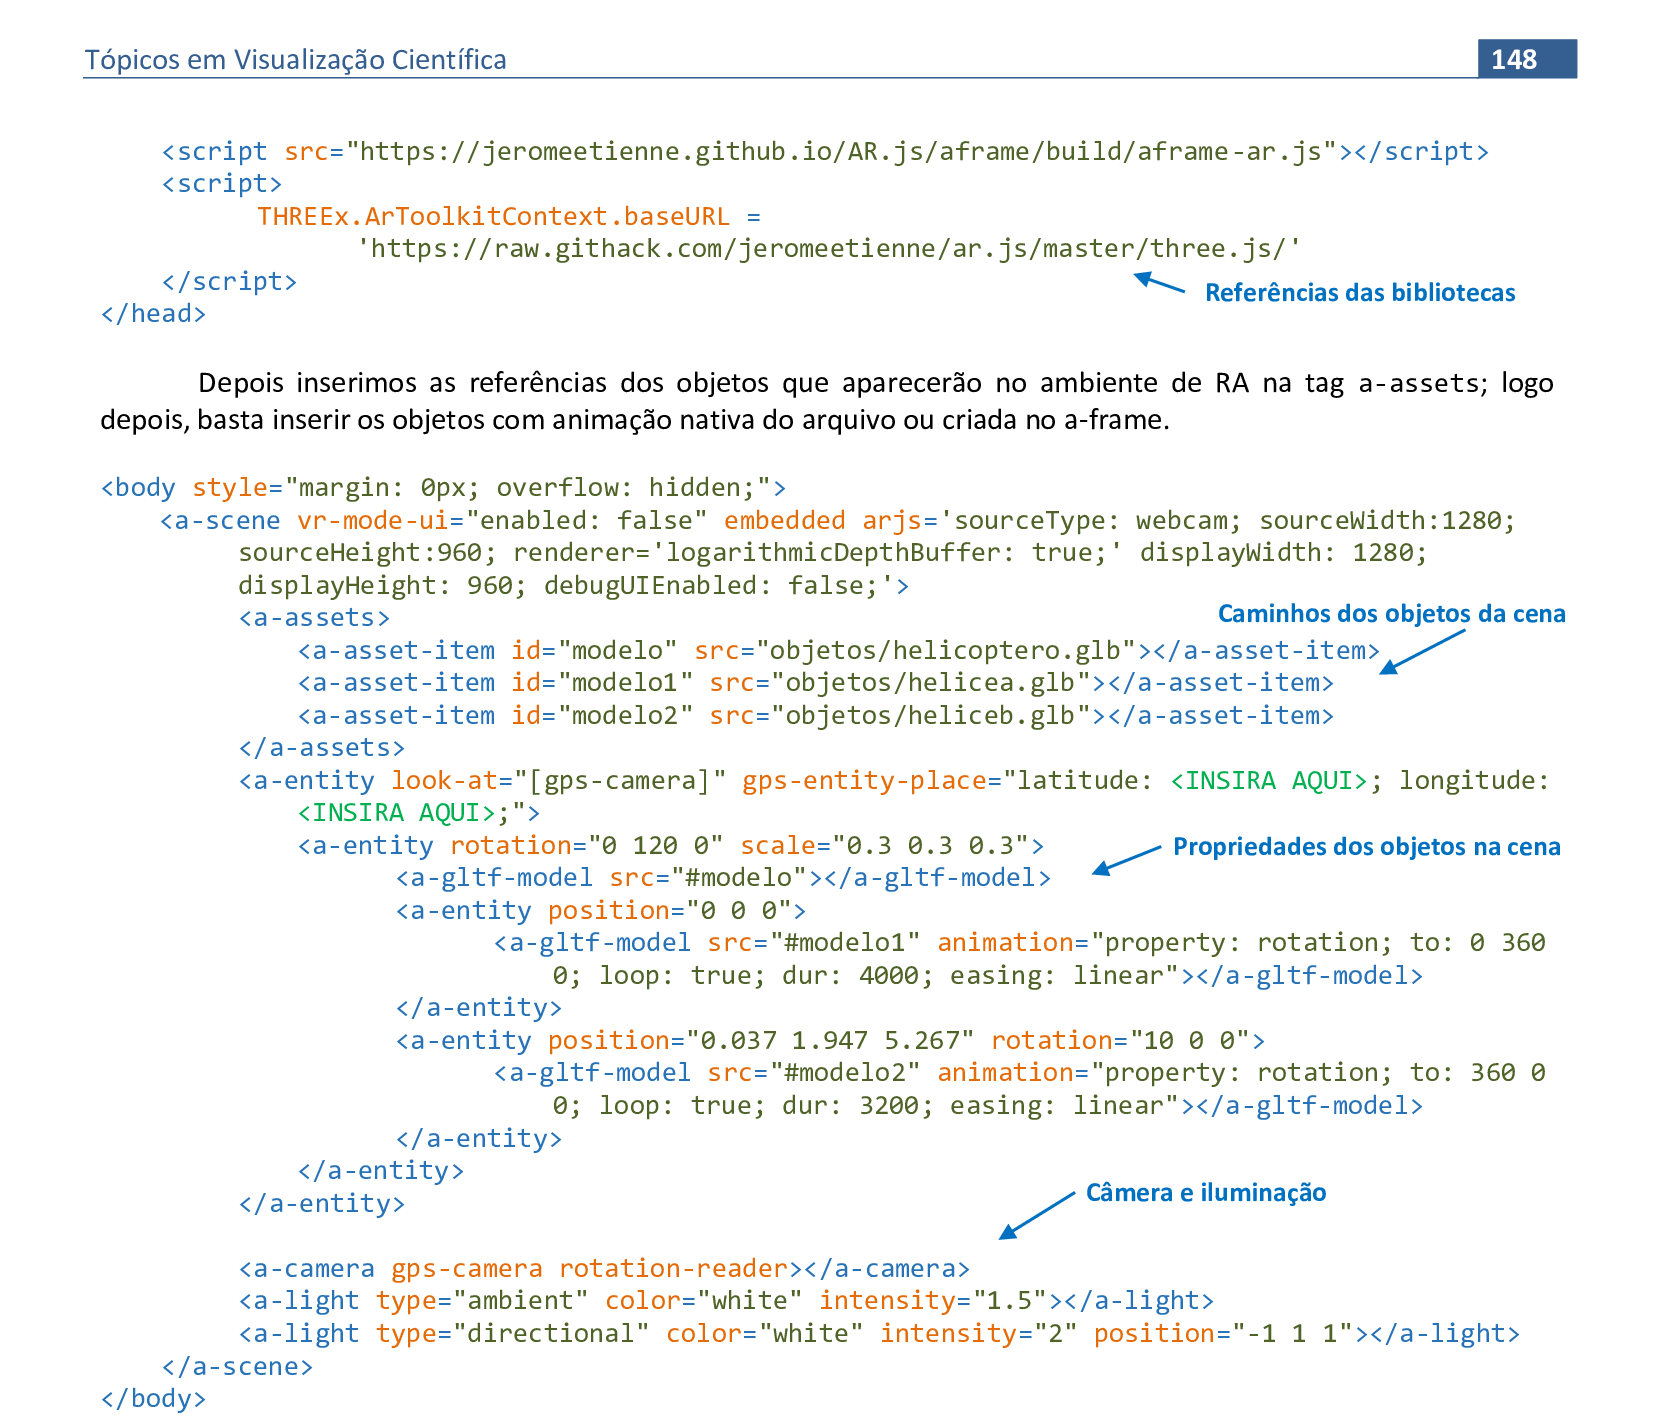
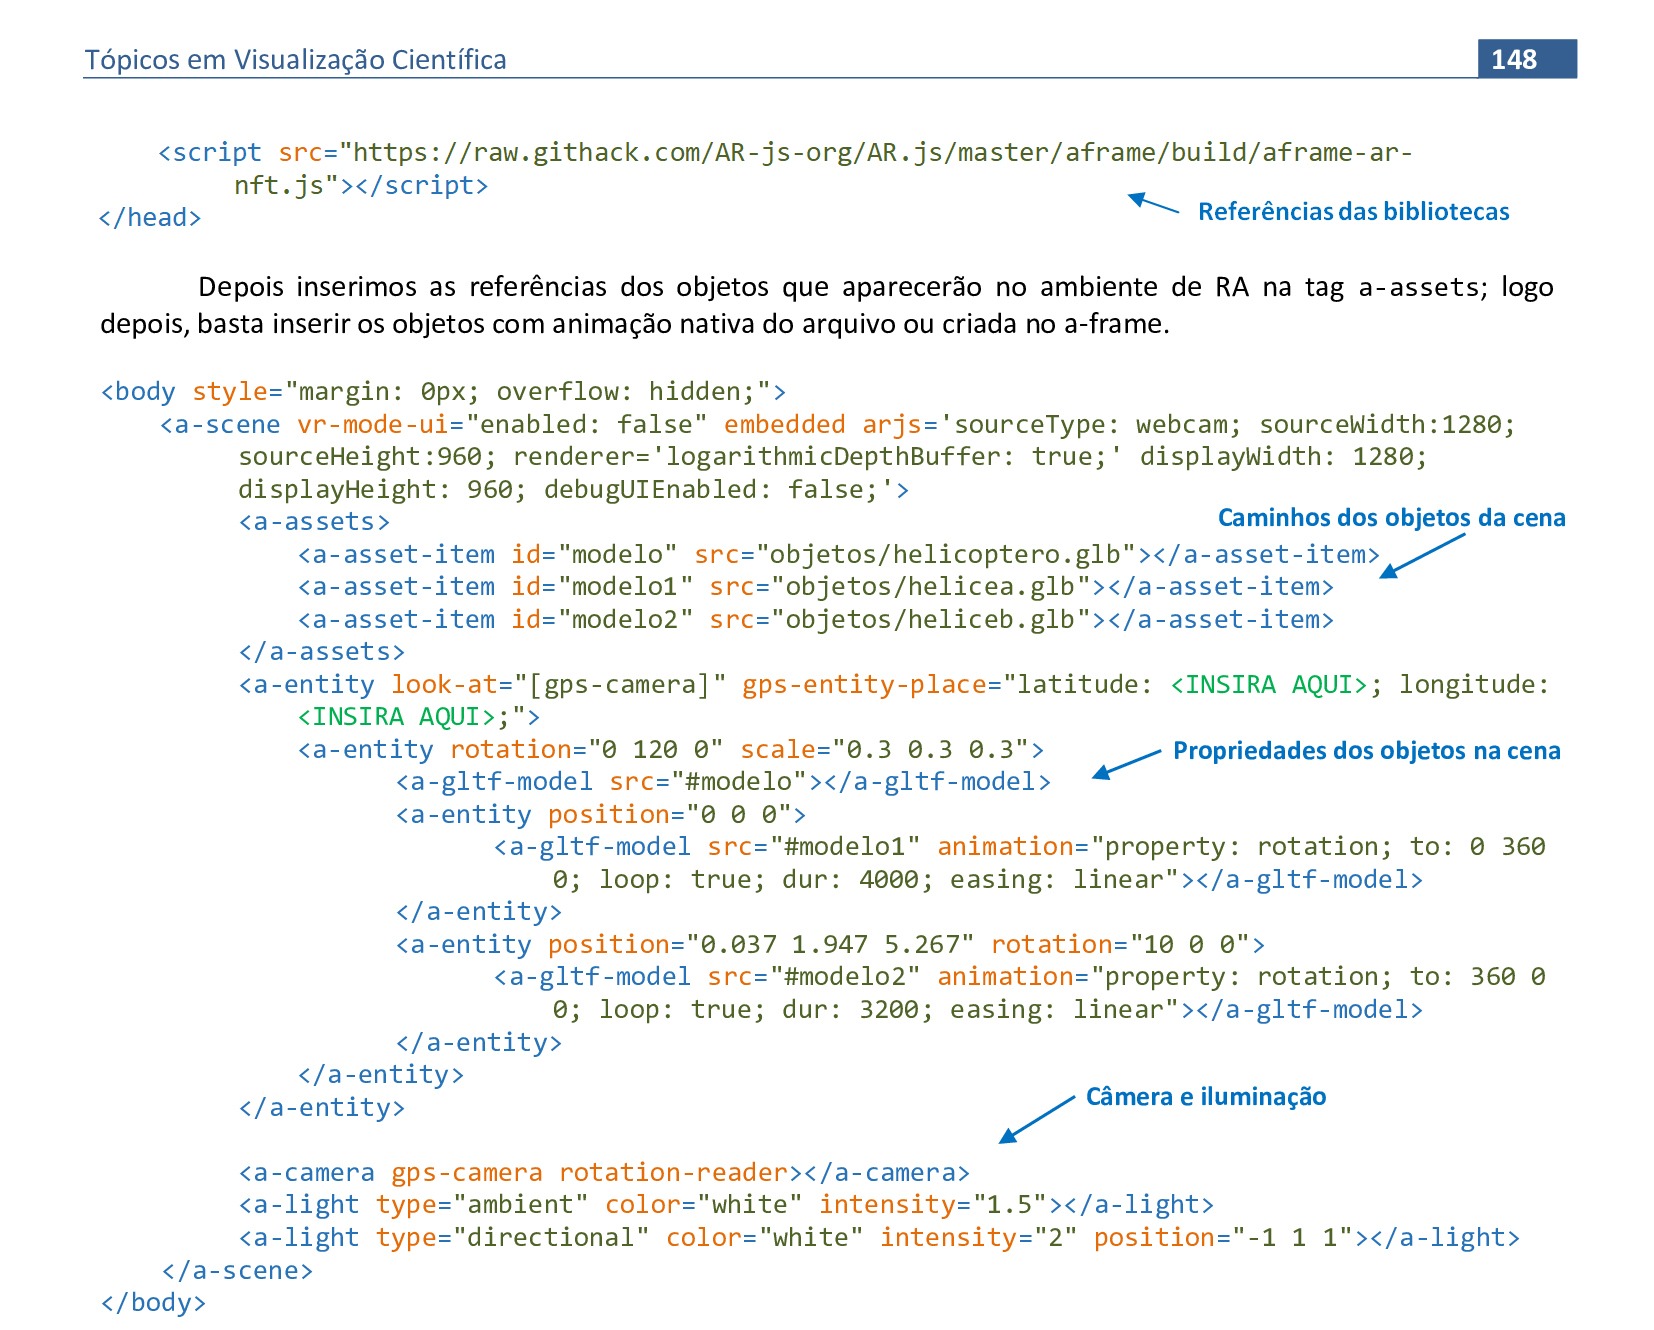
updt

diff --git a/modulo9/exemplo2.html b/modulo9/exemplo2.html
@@ -5,8 +5,11 @@
     <meta http-equiv='X-UA-Compatible' content='IE=edge'>
     <meta name="viewport" content="width=device-width, user-scalable=no, minimum-scale=1.0, maximum-scale=1.0">
     <script src="https://aframe.io/releases/1.3.0/aframe.min.js"></script>
-    <script src="https://unpkg.com/aframe-look-at-component@1.0.0/dist/aframe-look-at-component.min.js"></script>
-    <script src="https://raw.githack.com/AR-js-org/AR.js/master/aframe/build/aframe-ar-nft.js"></script>
+    <script src="https://raw.githack.com/jeromeetienne/AR.js/master/aframe/build/aframe-ar.min.js"></script>
+    <script src="https://raw.githack.com/donmccurdy/aframe-extras/master/dist/aframe-extras.loaders.min.js"></script>
+    <script>
+        THREEx.ArToolkitContext.baseURL = 'https://raw.githack.com/jeromeetienne/ar.js/master/three.js/'
+    </script>
 </head>
 
 <body style="margin: 0px; overflow: hidden;">
@@ -19,7 +22,7 @@
 			<a-asset-item id="modelo3" src="objetos/lamp2/scene.gltf"></a-asset-item>
         </a-assets>
 
-        <a-entity look-at="[gps-camera]" gps-entity-place="latitude: -25.407881948458567 ; longitude: -49.264665912012504;">
+        <a-entity gps-projected-entity-place="latitude: -25.407881948458567; longitude: -49.264665912012504">
             <a-entity position="0 -1.6 0" rotation="0 120 0" scale="0.3 0.3 0.3"> 
                 <a-gltf-model src="#modelo"></a-gltf-model>
                 <a-entity position="0 0 0">
